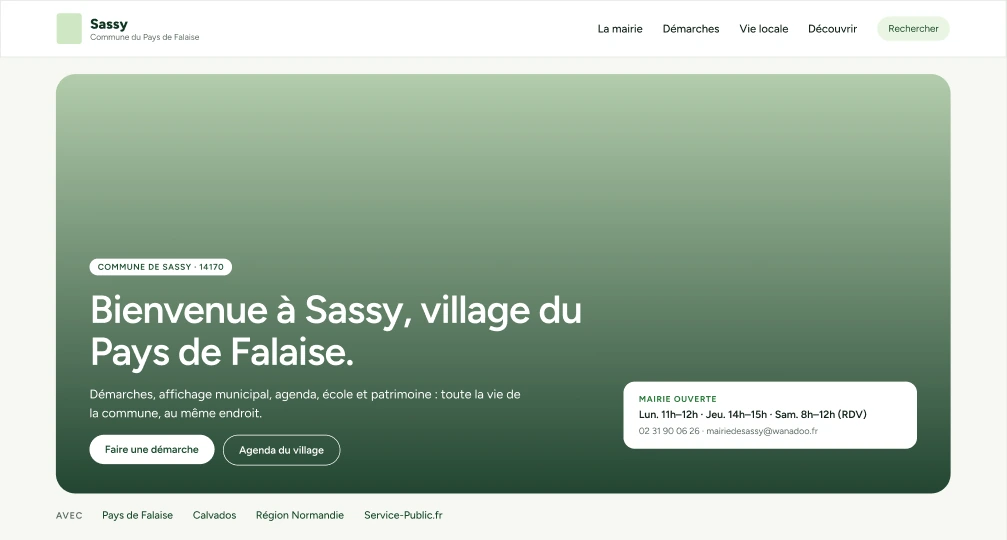
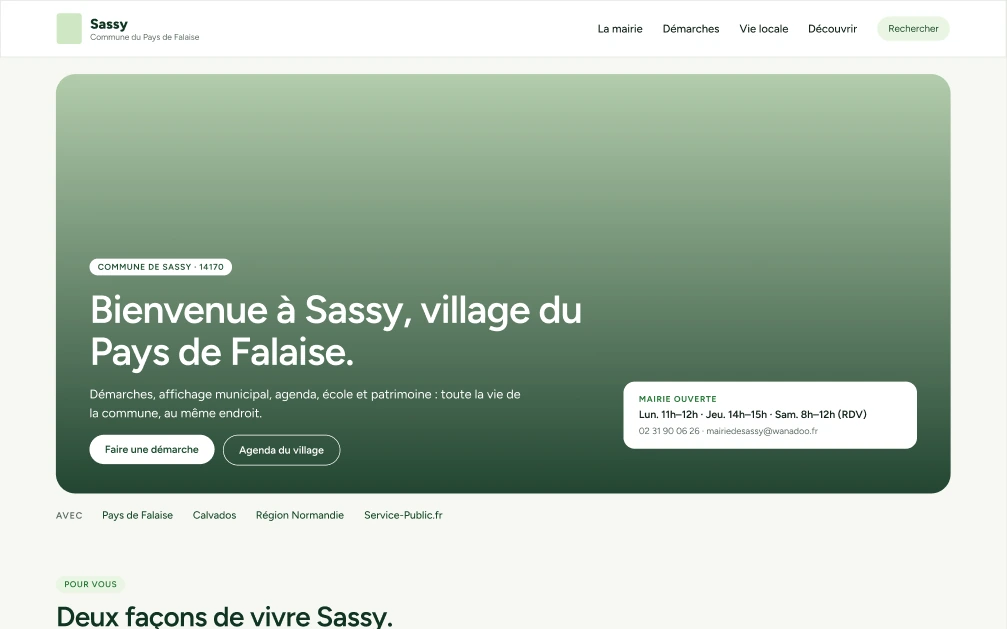
dev: vraies captures des sites en ligne à côté des maquettes Figma
Claude-Session: https://claude.ai/code/session_01PL5uDWbHu6DrzALGX3Hvpk

diff --git a/dev.html b/dev.html
@@ -80,7 +80,8 @@
         <li>Composants et styles réutilisables, police Figtree hébergée sur le site</li>
       </ul>
       <div class="shots">
-        <figure class="frame"><a href="/assets/dev/figma-mairie-sassy.webp" target="_blank" rel="noopener" title="Agrandir"><div class="frame-bar"><i></i><i></i><i></i><span>Figma · accueil</span></div><img src="/assets/dev/figma-mairie-sassy.webp" alt="Maquette Figma de l'accueil du site de la mairie" loading="lazy"></a></figure>
+        <figure class="frame"><a href="/assets/dev/site-mairie.webp" target="_blank" rel="noopener" title="Agrandir"><div class="frame-bar"><i></i><i></i><i></i><span>Le site en ligne</span></div><img src="/assets/dev/site-mairie.webp" alt="Capture de l'accueil du site de la mairie de Sassy" loading="lazy"></a></figure>
+        <figure class="frame"><a href="/assets/dev/figma-mairie-sassy.webp" target="_blank" rel="noopener" title="Agrandir"><div class="frame-bar"><i></i><i></i><i></i><span>Maquette Figma</span></div><img src="/assets/dev/figma-mairie-sassy.webp" alt="Maquette Figma de l'accueil du site de la mairie" loading="lazy"></a></figure>
       </div>
       <div class="logline">
         <div><span class="k">stack:</span> Astro, TypeScript, Markdown / YAML, Pagefind, Vercel</div>
@@ -101,7 +102,8 @@
         <li>Cohérence stricte avec l'identité de marque existante (logo, palette, ton)</li>
       </ul>
       <div class="shots">
-        <figure class="frame"><a href="/assets/dev/figma-procom.webp" target="_blank" rel="noopener" title="Agrandir"><div class="frame-bar"><i></i><i></i><i></i><span>Figma · accueil</span></div><img src="/assets/dev/figma-procom.webp" alt="Maquette Figma de l'accueil de Procom Solution" loading="lazy"></a></figure>
+        <figure class="frame"><a href="/assets/dev/site-procom.webp" target="_blank" rel="noopener" title="Agrandir"><div class="frame-bar"><i></i><i></i><i></i><span>Le site en ligne</span></div><img src="/assets/dev/site-procom.webp" alt="Capture de l'accueil de Procom Solution" loading="lazy"></a></figure>
+        <figure class="frame"><a href="/assets/dev/figma-procom.webp" target="_blank" rel="noopener" title="Agrandir"><div class="frame-bar"><i></i><i></i><i></i><span>Maquette Figma</span></div><img src="/assets/dev/figma-procom.webp" alt="Maquette Figma de l'accueil de Procom Solution" loading="lazy"></a></figure>
       </div>
       <div class="logline">
         <div><span class="k">stack:</span> HTML, CSS, JavaScript, Vercel</div>
